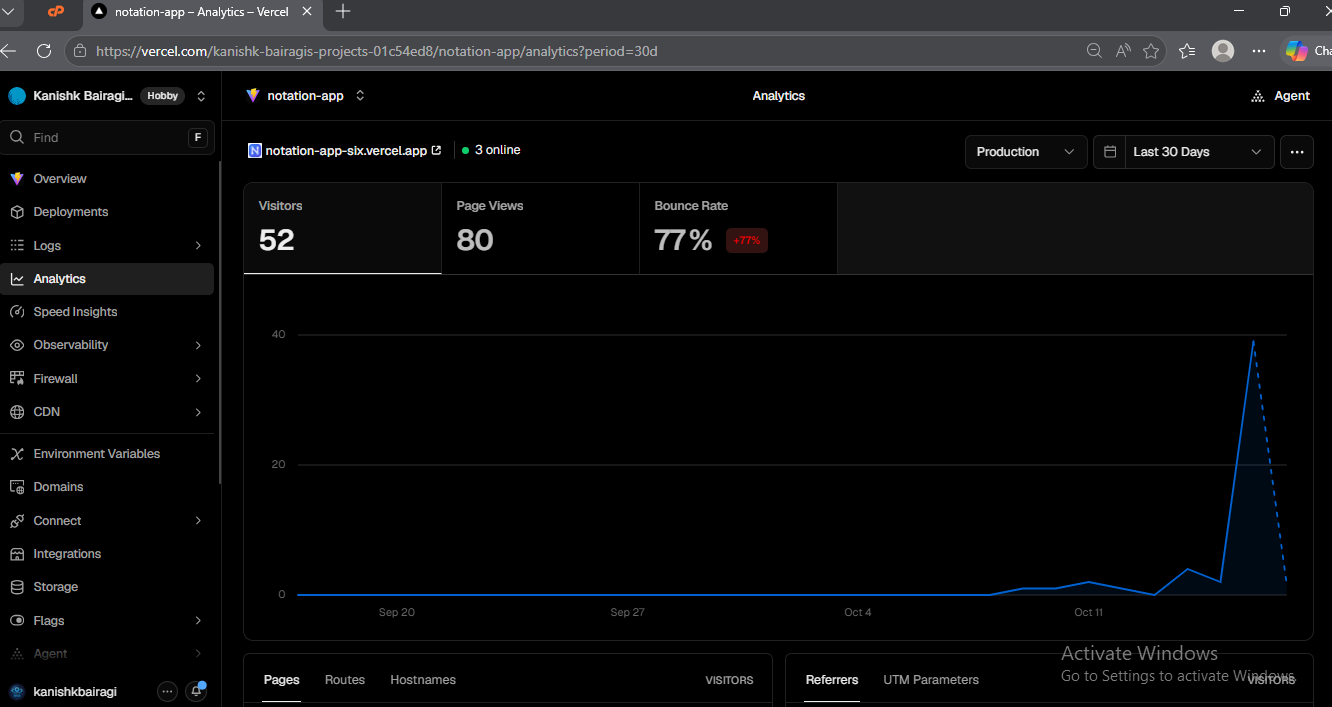
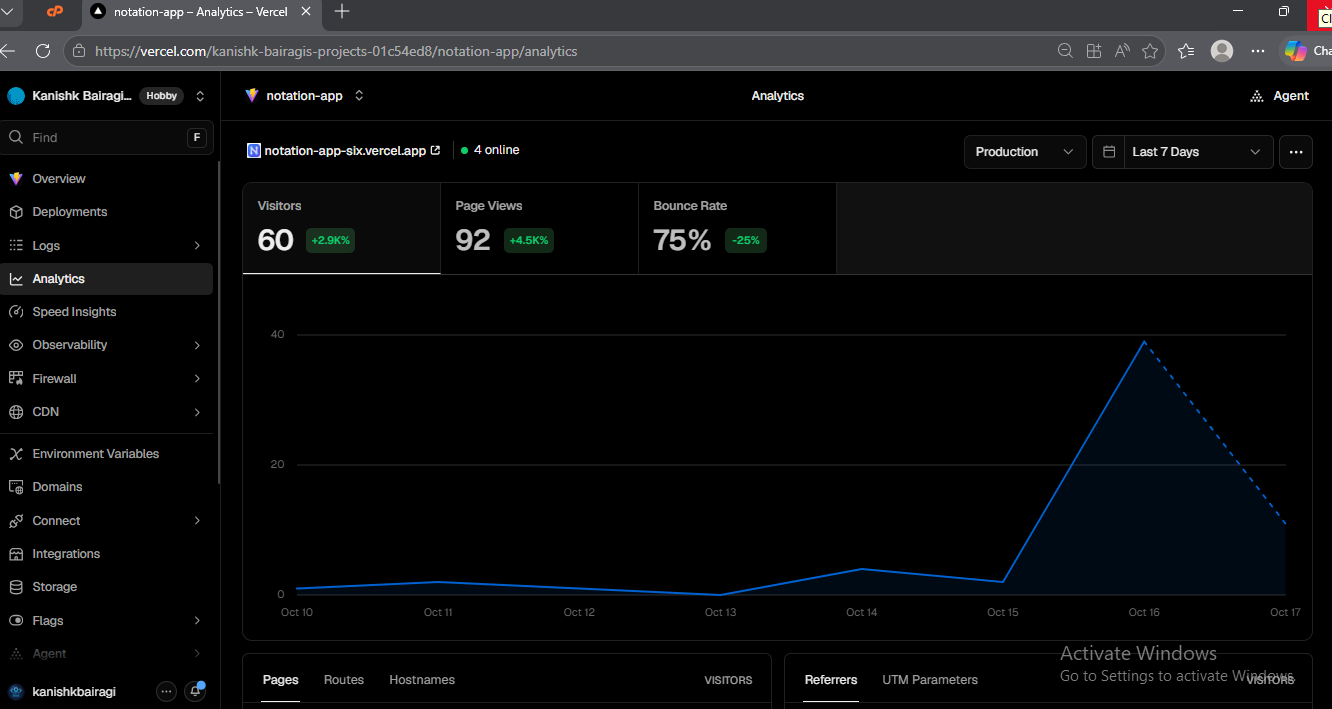
updated new data

diff --git a/src/data/projects.js b/src/data/projects.js
@@ -281,18 +281,18 @@ export const projects = [
         demo: "https://notation-app-six.vercel.app/",
         image: notationsImg,
         metaBadges: [
-            "52+ Verified Users (7 Countries)",
+            "60+ Verified Users (7 Countries)",
             "BM25 Sub-2ms Queries",
             "Vercel Telemetry"
         ],
-        description: "A graph-based knowledge base that combines an interactive force-directed graph with an Okapi BM25 search engine. Simulates graph layout using Coulomb repulsion and Hooke spring physics on HTML5 Canvas at 60 FPS. Features sub-2ms search queries powered by an inverted index and prefix Trie, along with BFS shortest-path traversal between connected notes. Evaluated by 52+ users across 7 countries.",
-        overviewDescription: "A graph-based knowledge base combining an interactive force-directed graph with an Okapi BM25 search engine. Simulates graph layout using Coulomb repulsion and Hooke spring physics on HTML5 Canvas at 60 FPS with sub-2ms queries. Validated by 52+ global users across 7 countries.",
+        description: "A graph-based knowledge base that combines an interactive force-directed graph with an Okapi BM25 search engine. Simulates graph layout using Coulomb repulsion and Hooke spring physics on HTML5 Canvas at 60 FPS. Features sub-2ms search queries powered by an inverted index and prefix Trie, along with BFS shortest-path traversal between connected notes. Evaluated by 60+ users across 7 countries.",
+        overviewDescription: "A graph-based knowledge base combining an interactive force-directed graph with an Okapi BM25 search engine. Simulates graph layout using Coulomb repulsion and Hooke spring physics on HTML5 Canvas at 60 FPS with sub-2ms queries. Validated by 60+ global users across 7 countries.",
         highlights: [
             "Force-Directed Physics on HTML5 Canvas: Coulomb repulsion, Hooke spring attraction & damping velocity relaxation at 60 FPS",
             "Okapi BM25 Probabilistic Ranking: Calibrated term saturation (k1=1.2) and document length normalization (b=0.75)",
             "Inverted Index & Prefix Trie: In-memory postings list Map<Term, PostingsList> with sub-2ms O(L) prefix autocomplete",
             "Graph Theory Analytics: Degree Centrality CD(v) = deg(v)/(|V|-1) and BFS Shortest Path traversal in O(|V| + |E|)",
-            "AST-Driven Knowledge Graph: Bidirectional [[WikiLink]] parsing into an adjacency list with backlinks drawer; verified by 52+ visitors across 7 countries with 75% mobile usage."
+            "AST-Driven Knowledge Graph: Bidirectional [[WikiLink]] parsing into an adjacency list with backlinks drawer; verified by 60+ visitors across 7 countries with 75% mobile usage."
         ],
         metrics: [
             { label: "Graph Engine", value: "Force-Directed G=(V,E)" },
@@ -312,11 +312,11 @@ export const projects = [
         extraSkillsCount: 3,
         telemetry: {
             title: "Production Telemetry & Real-World Adoption",
-            badgeText: "52+ Users Across 7 Countries",
+            badgeText: "60+ Users Across 7 Countries",
             description: "Empirical telemetry and interaction metrics collected from Vercel analytics demonstrating multi-region usage and cross-device interaction.",
             stats: [
-                { label: "Verified Users", value: "52+ Visitors", sub: "Production Users" },
-                { label: "Interaction Sessions", value: "80+ Page Views", sub: "Graph Explorations" },
+                { label: "Verified Users", value: "60+ Visitors", sub: "Production Users" },
+                { label: "Interaction Sessions", value: "92+ Page Views", sub: "Graph Explorations" },
                 { label: "Global Reach", value: "7 Countries", sub: "India, US, EU, BR" },
                 { label: "Mobile Responsiveness", value: "75% Mobile", sub: "Cross-Platform" }
             ],
@@ -324,9 +324,9 @@ export const projects = [
                 {
                     id: 1,
                     title: "Live Traffic & Query Engagement",
-                    metricBadge: "52+ Unique Visitors • 80+ Page Views",
+                    metricBadge: "60+ Unique Visitors • 92+ Page Views",
                     image: note1Img,
-                    caption: "Live Traffic Telemetry: 52+ verified unique visitors and 80+ knowledge graph interaction sessions."
+                    caption: "Live Traffic Telemetry: 60+ verified unique visitors and 92+ knowledge graph interaction sessions."
                 },
                 {
                     id: 2,
@@ -390,7 +390,7 @@ export const projects = [
                 { metric: "Prefix Lookup", value: "O(L)", benchmark: "Trie Stem Autocomplete", status: "Optimal" },
                 { metric: "Graph Simulation", value: "60 FPS", benchmark: "Damped Euler Numerical Solver", status: "Optimal" },
                 { metric: "Centrality Metric", value: "Degree CD(v)", benchmark: "Hub Node Identification", status: "Optimal" },
-                { metric: "GLOBAL ADOPTION", value: "52+ Verified Users", benchmark: "7 Countries • Vercel Telemetry", status: "Telemetry" }
+                { metric: "GLOBAL ADOPTION", value: "60+ Verified Users", benchmark: "7 Countries • Vercel Telemetry", status: "Telemetry" }
             ]
         }
     },

diff --git a/README.md b/README.md
@@ -48,7 +48,7 @@ Beyond conventional portfolio websites, this platform functions as an **interact
 | :--- | :--- | :--- | :--- | :--- |
 | **[Jawam Infotech Official Platform](https://jawaminfotech.com/)** | Enterprise Full-Stack & Frontend Intern (2026) | 46-route React SPA with route-level dynamic code splitting (`React.lazy` / `Suspense`), chunked streaming AI response handling, and automated WebP/AVIF media compression. | **Lighthouse 96+**<br>FCP: 1.05s, LCP: 1.78s<br>Media payload: **-72%** (45MB → 8.2MB) | [Live Demo](https://jawaminfotech.com/) • [GitHub](https://github.com/kanishkbairagi/Jawam-project.git) |
 | **[Algorithmic State Engine & Visualizer](https://data-structure-visualizerr.vercel.app)** | Algorithm & Systems Engineering (2025) | Interactive state engine animating AVL tree rotations across 4 archetypes (LL, RR, LR, RL), Dijkstra shortest-path relaxation, and contiguous dynamic array buffer doubling. | **151+ Verified Visitors** (9 Countries)<br>AVL Search: $O(\log N)$<br>Dijkstra: $O((V+E)\log V)$<br>Append: Amortized $O(1)$ | [Live Demo](https://data-structure-visualizerr.vercel.app) • [GitHub](https://github.com/kanishkbairagi/data-structure-visualizerr) |
-| **[Topological Knowledge Graph & IR Engine](https://notation-app-six.vercel.app/)** | Systems & Information Retrieval (2025) | HTML5 Canvas $n$-body force-directed physics engine (Coulomb repulsion & Hooke spring relaxation), Okapi BM25 statistical ranking, prefix Trie autocomplete, and BFS pathfinding. | **52+ Verified Users** (7 Countries)<br>Query Latency: **< 1.8ms**<br>Physics: **60 FPS**<br>BFS: $O(\|V\| + \|E\|)$<br>Prefix: $O(L)$ | [Live Demo](https://notation-app-six.vercel.app/) • [GitHub](https://github.com/kanishkbairagi/notation-app.git) |
+| **[Topological Knowledge Graph & IR Engine](https://notation-app-six.vercel.app/)** | Systems & Information Retrieval (2025) | HTML5 Canvas $n$-body force-directed physics engine (Coulomb repulsion & Hooke spring relaxation), Okapi BM25 statistical ranking, prefix Trie autocomplete, and BFS pathfinding. | **60+ Verified Users** (7 Countries)<br>Query Latency: **< 1.8ms**<br>Physics: **60 FPS**<br>BFS: $O(\|V\| + \|E\|)$<br>Prefix: $O(L)$ | [Live Demo](https://notation-app-six.vercel.app/) • [GitHub](https://github.com/kanishkbairagi/notation-app.git) |
 | **[Visual Habit Graph (VHG)](https://visual-habit-graph.vercel.app/)** | Full-Stack & Systems (2025) | Directed Acyclic Graph (DAG) dependency engine with 3-color DFS cycle rejection in $O(\|V\| + \|E\|)$, Kahn’s topological sort, and Critical Path Method (CPM) dynamic programming. | Cycle Reject: $O(\|V\| + \|E\|)$<br>Topological Sort: $O(\|V\| + \|E\|)$<br>CPM Slack: $0$ critical path | [Live Demo](https://visual-habit-graph.vercel.app/) • [GitHub](https://github.com/kanishkbairagi/visual-habit-graph.git) |
 | **[Emoji Mood Diary](https://emoji-based-mood-diary-with-color-a.vercel.app/)** | Interactive Web Apps (2025) | Responsive mood journal with color-adaptive theme switching, Framer Motion micro-animations, and client-side persistence. | Instantaneous transitions<br>Responsive UI states | [Live Demo](https://emoji-based-mood-diary-with-color-a.vercel.app/) • [GitHub](https://github.com/kanishkbairagi/emoji-based-mood-diary-with-color-adaptive-themes.git) |
 
